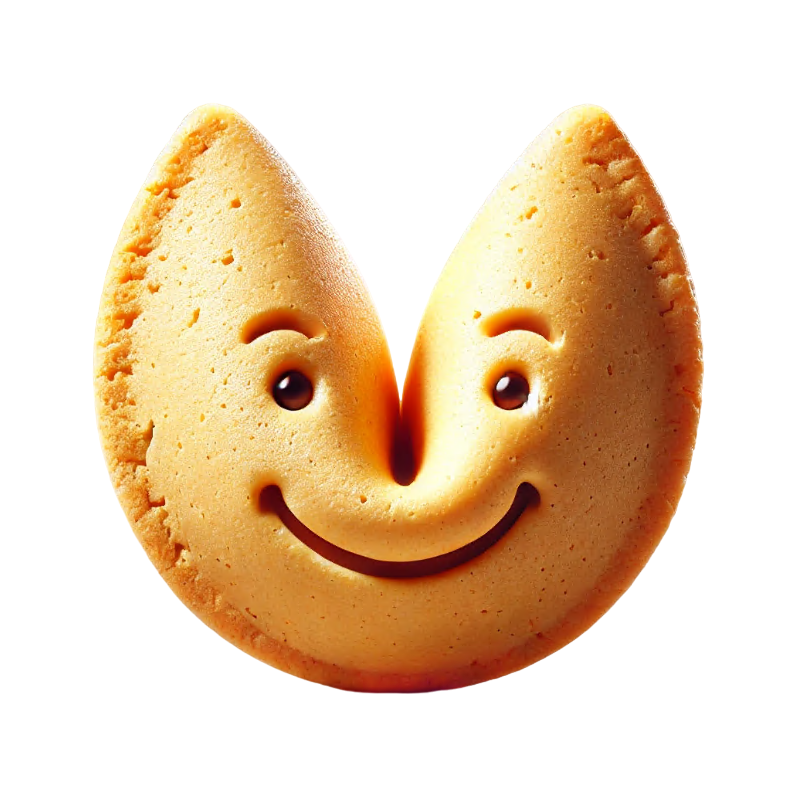
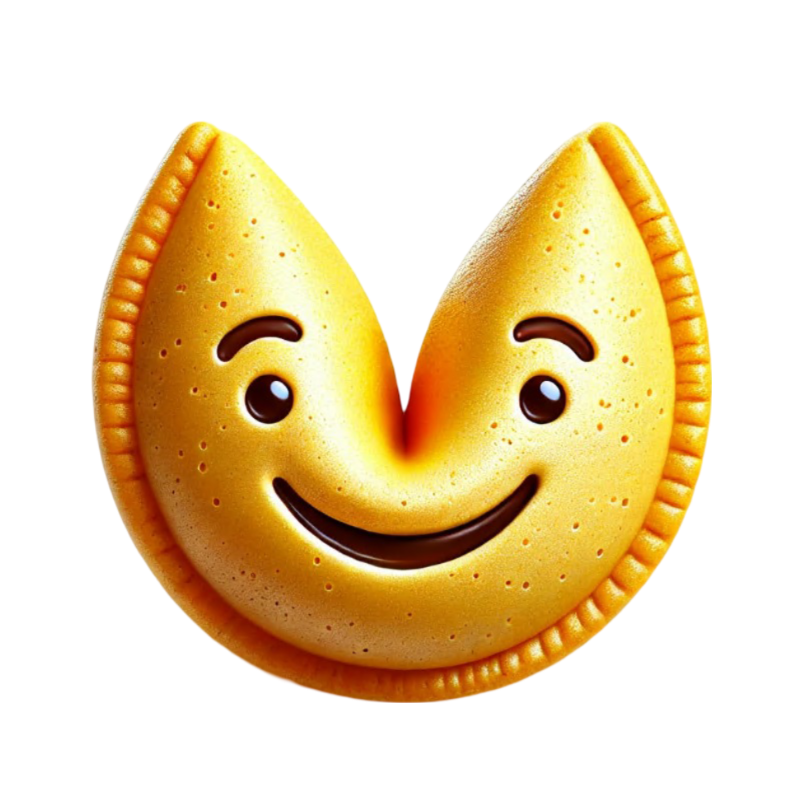
updated character

diff --git a/src/components/PandaClickPoint.tsx b/src/components/PandaClickPoint.tsx
@@ -80,12 +80,12 @@ const PandaClickPoint: React.FC<T_PandaClickPoint> = ({
   return (
     <>
       <div className="flex w-full flex-col px-6 h-[500px] relative">
-        <div className="flex justify-center items-center bg-[url('/images/charact_background.png')] bg-[length:100%_100%]">
+        <div className="flex justify-center items-center py-4 bg-[url('/images/charact_background.png')] bg-[length:100%_100%]">
           <img
             onClick={clickPoint}
             src="/images/cookie_character.png"
             alt="Main Background"
-            className="w-[70%] h-auto"
+            className="w-[60%] h-auto drop-shadow-xl"
           />
         </div>
         {isLoading && (

diff --git a/src/app/page.tsx b/src/app/page.tsx
@@ -228,7 +228,7 @@ export default function Home() {
         <VerifyEnterScreen sequenceNumber={sequenceNumber} />
       ) : (
         <>
-          <div className="flex flex-col justify-start bg-[#1CA774] items-center min-h-screen pt-4">
+          <div className="flex flex-col justify-start bg-[#1CA774] items-center min-h-screen pt-14">
             <PandaClickPoint
               totalPoint={totalPoint}
               setTotalPoint={setTotalPoint}
